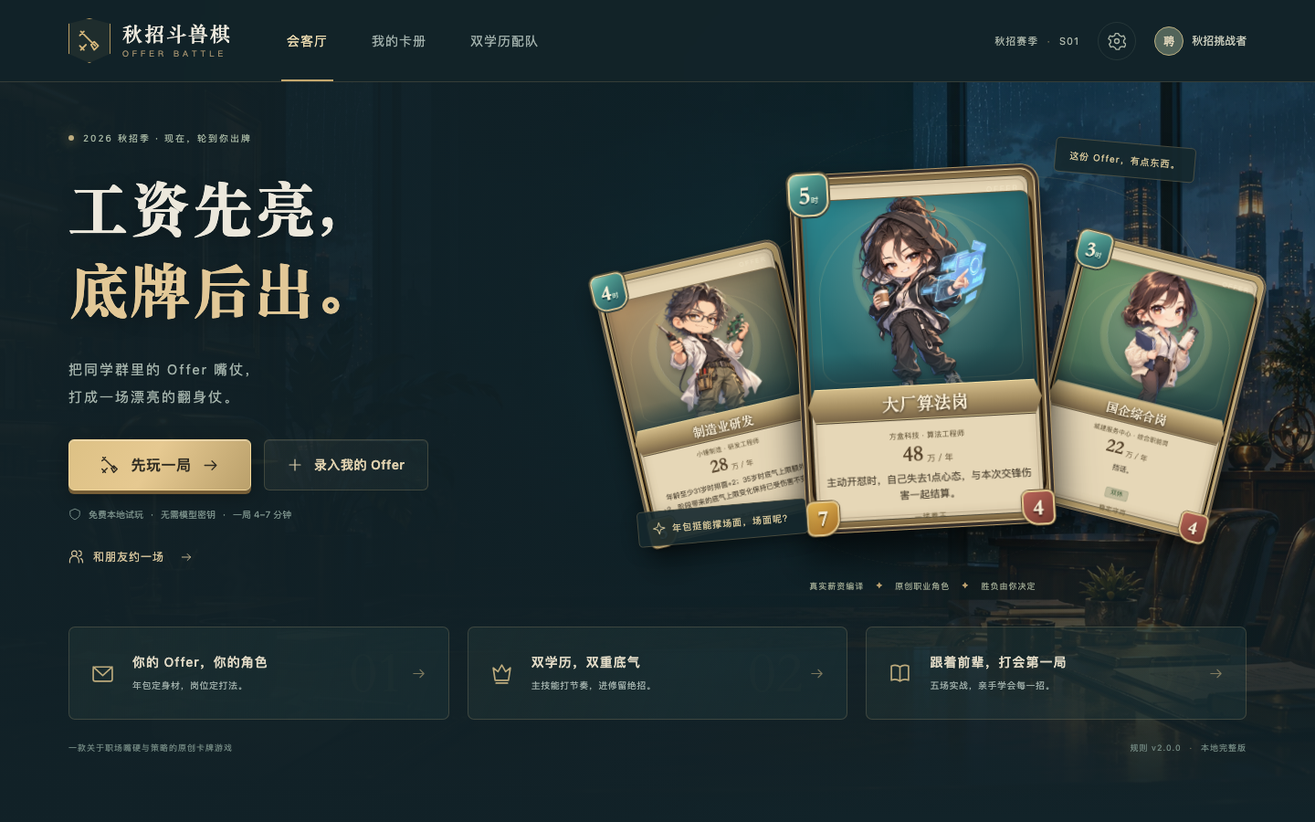
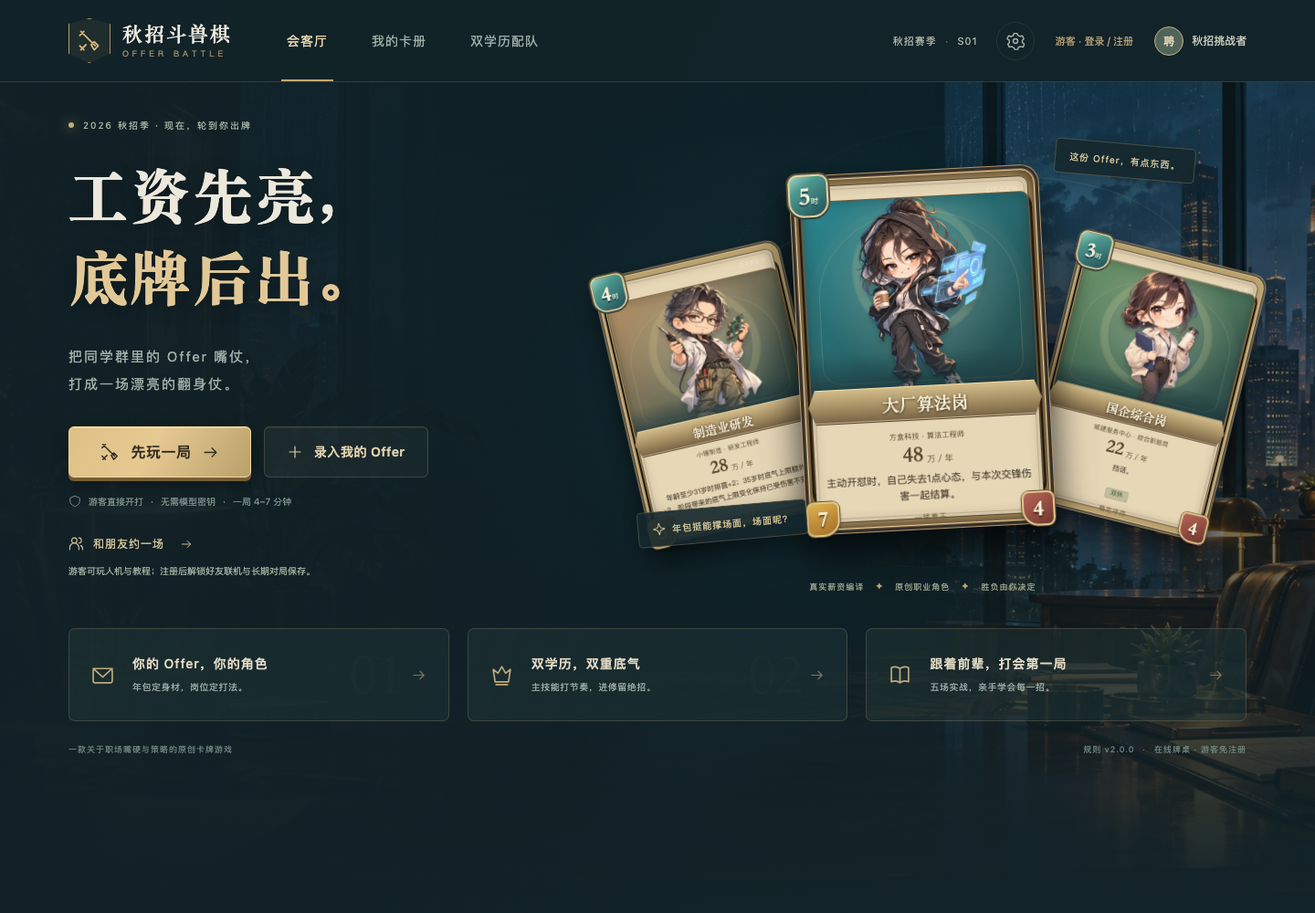
Fix mobile tutorial completion and document verified public release

diff --git a/src/styles/tutorial.css b/src/styles/tutorial.css
@@ -1,4 +1,4 @@
-.academy-page{padding-top:35px}.academy-hero{display:grid;grid-template-columns:1.1fr 1fr;min-height:475px;align-items:center;gap:40px;position:relative;background:radial-gradient(ellipse at 78% 40%,#bda56d12,transparent 55%)}.academy-hero h1{font:600 clamp(36px,4.6vw,62px)/1.35 var(--serif);letter-spacing:3px;margin:20px 0;color:#ede7d1}.academy-hero h1 em{color:#d8bf84;font-style:normal}.academy-hero section>p{color:#a4b4aa;line-height:2;font-size:15px;letter-spacing:1px}.academy-progress{max-width:300px;margin:25px 0 22px;color:#b9b58f;font-size:11px}.academy-progress>div{height:5px;background:#71867d25;margin-top:11px;border-radius:6px;overflow:hidden}.academy-progress i{display:block;height:100%;background:linear-gradient(90deg,#547b66,#d6bc80);transition:width .4s}.academy-actions{display:flex;align-items:center;gap:20px;flex-wrap:wrap}.academy-actions>.text-btn{font-size:11px}.academy-mentor{position:relative;height:435px;display:grid;place-items:center;isolation:isolate}.academy-mentor>img{height:415px;max-width:90%;object-fit:contain;position:relative;z-index:1;filter:drop-shadow(0 15px 28px #0007)}.mentor-orbit{position:absolute;inset:42px 30px 50px;border:1px solid #c5ae6545;border-radius:50%;background:radial-gradient(ellipse,#cfbc6422,transparent 67%)}.mentor-orbit:after{content:'';position:absolute;inset:18px;border:1px dashed #b29a5140;border-radius:50%}.mentor-note{position:absolute;bottom:5px;left:0;right:0;z-index:2;background:linear-gradient(120deg,#24453ef5,#142d31f5);border:1px solid #bda56d66;padding:17px 25px;transform:rotate(-2deg);box-shadow:0 8px 30px #0005;border-radius:5px;max-width:360px;margin:auto}.mentor-note>span{font-size:10px;color:#b9aa7b;letter-spacing:2px}.mentor-note strong{display:block;margin:9px 0;color:#eadab1;font:600 23px var(--serif)}.mentor-note p{font-size:11px;color:#9cae9a;margin:0}.academy-curriculum{margin-top:40px;padding-bottom:40px}.lesson-path{display:grid;gap:15px}.lesson-card{display:flex;align-items:center;gap:26px;text-align:left;padding:24px 28px;background:linear-gradient(110deg,#243a36b3,#152a3099);border:1px solid #a8995e47;border-radius:10px;width:100%;position:relative;color:#dfd9ba;transition:background .2s,border-color .2s,transform .2s}.lesson-card.unlocked:hover{border-color:#d1ba74;background:#2e453dd6;transform:translateY(-2px)}.lesson-card.locked{opacity:.48;cursor:default}.lesson-number{width:55px;height:55px;flex-shrink:0;display:grid;place-items:center;border:1px solid #b9a25f7a;border-radius:14px;background:#ceb46d12;color:#d7bf81;font:26px var(--serif)}.lesson-card.complete .lesson-number{color:#a5c7a3;background:#709d6a25;border-color:#739371}.lesson-content{flex:1}.lesson-topic{font-size:10px;letter-spacing:2px;color:#a9a783}.lesson-content h3{font:600 23px var(--serif);margin:8px 0 9px}.lesson-content p{font-size:12px;color:#9eafa2;line-height:1.7;margin:0}.lesson-tags{display:flex;gap:7px;flex-wrap:wrap;margin-top:13px}.lesson-tags>span{font-size:9px;color:#b7bea0;border:1px solid #9baf792e;border-radius:3px;padding:4px 7px}.lesson-end{display:flex;align-items:center;gap:25px;color:#bdaa70}.lesson-end .badge{font-size:9px}.tutorial-coach{position:sticky;top:5px;z-index:45;margin:0 auto 18px;max-width:1370px;display:flex;align-items:center;gap:18px;padding:16px 20px 20px;border:1px solid #c3ac6d80;border-radius:10px;background:linear-gradient(100deg,#183333f5,#1c3430f5);box-shadow:0 7px 25px #0006;backdrop-filter:blur(12px);isolation:isolate}.coach-portrait{width:64px;height:78px;overflow:hidden;border:1px solid #bda569;background:radial-gradient(ellipse,#b9c298,#345449);border-radius:40% 40% 12px 12px;flex-shrink:0}.coach-portrait>img{width:85px;height:127px;max-width:none;object-fit:cover;transform:translateX(-10px)}.coach-message{flex:1;min-width:0}.coach-topline{display:flex;gap:12px;justify-content:space-between;color:#aead81;font-size:10px;letter-spacing:1px}.coach-topline b{color:#d7bd75;font-weight:500}.coach-message>p{font-size:14px;color:#e1ddc2;line-height:1.8;margin:8px 0;animation:coach-arrive .25s ease-out}.coach-message>strong{font-size:13px;color:#e5c887;display:block;line-height:1.7}.coach-message>strong>span{font-size:9px;letter-spacing:1px;padding:3px 5px;background:#ceb3711c;border-radius:3px;color:#b9b28b;margin-right:8px}.coach-hint{margin-top:10px;padding:10px 12px;border-left:2px solid #bda46a;background:#031b2033;font-size:12px;line-height:1.8;color:#b7c3b2}.coach-actions{display:grid;grid-template-columns:1fr 1fr;gap:7px;flex-shrink:0}.coach-actions>button{display:flex;gap:6px;align-items:center;justify-content:center;font-size:10px;padding:9px 10px;border:1px solid #bca36b39;background:#c5b8780b;color:#bcbc9b;border-radius:4px;min-height:36px}.coach-actions>button:first-child{border-color:#c4ab7277;color:#e1c98b}.coach-progress{position:absolute;bottom:0;left:12px;right:12px;height:3px;background:#b9bc9220;border-radius:4px;overflow:hidden}.coach-progress>i{height:100%;display:block;background:#d7bd79;transition:width .4s}.tutorial-spotlight{position:fixed;z-index:52;pointer-events:none;border:2px solid #f1d487;border-radius:10px;box-shadow:0 0 0 5px #e4c9781d,0 0 27px #ffeeb451;animation:lesson-pulse 1.4s ease-in-out infinite}.tutorial-spotlight>span{position:absolute;top:-24px;left:50%;transform:translateX(-50%);display:flex;align-items:center;white-space:nowrap;gap:5px;font-size:10px;padding:4px 8px;border-radius:4px;background:#edd69a;color:#253b33}.tutorial-spotlight svg{transform:rotate(90deg)}.lesson-complete-overlay{position:fixed;inset:0;z-index:110;display:grid;place-items:center;padding:20px;background:#081b24d9;backdrop-filter:blur(8px)}.lesson-complete{width:620px;max-width:100%;max-height:92vh;overflow:auto;text-align:center;border:1px solid #c3ad6c;border-radius:14px;padding:35px;background:radial-gradient(ellipse at top,#4c6444,#213c36 48%,#152b30);box-shadow:0 0 70px #c0a74b20;animation:lesson-complete-in .5s ease-out}.lesson-complete-seal{width:100px;height:100px;border:2px solid #d8c180;box-shadow:0 0 0 8px #c4b2721c,0 0 50px #c5c06b25;border-radius:50%;display:grid;place-items:center;color:#e7d399;margin:5px auto 30px;background:#ddc17215}.lesson-complete h1{font:600 34px/1.6 var(--serif);color:#f1dfaf;margin:18px 0}.lesson-complete h1 em{display:block;font-style:normal;font-size:21px;letter-spacing:8px;color:#adbf97}.lesson-complete>p{font-size:14px;color:#b8c7b0;line-height:1.9}.lesson-complete ul{list-style:none;padding:16px 0;margin:10px auto 20px;max-width:400px;text-align:left}.lesson-complete li{padding:9px 0;font-size:13px;border-bottom:1px solid #bfc89624;color:#c7d0b5;display:flex;align-items:center;gap:10px}.lesson-complete li svg{color:#c9bf7e}.lesson-complete .modal-actions{justify-content:center}.lesson-complete .center-btn{margin-top:20px}@keyframes coach-arrive{from{opacity:.35;transform:translateY(4px)}to{opacity:1;transform:translateY(0)}}@keyframes lesson-pulse{50%{box-shadow:0 0 0 7px #e4c9780e,0 0 35px #ffeeb46b}}@keyframes lesson-complete-in{from{opacity:0;transform:translateY(12px) scale(.96)}to{opacity:1;transform:none}}[data-reduced=true] .tutorial-spotlight,[data-reduced=true] .lesson-complete,[data-reduced=true] .coach-message>p{animation:none}
+.academy-page{padding-top:35px}.academy-hero{display:grid;grid-template-columns:1.1fr 1fr;min-height:475px;align-items:center;gap:40px;position:relative;background:radial-gradient(ellipse at 78% 40%,#bda56d12,transparent 55%)}.academy-hero h1{font:600 clamp(36px,4.6vw,62px)/1.35 var(--serif);letter-spacing:3px;margin:20px 0;color:#ede7d1}.academy-hero h1 em{color:#d8bf84;font-style:normal}.academy-hero section>p{color:#a4b4aa;line-height:2;font-size:15px;letter-spacing:1px}.academy-progress{max-width:300px;margin:25px 0 22px;color:#b9b58f;font-size:11px}.academy-progress>div{height:5px;background:#71867d25;margin-top:11px;border-radius:6px;overflow:hidden}.academy-progress i{display:block;height:100%;background:linear-gradient(90deg,#547b66,#d6bc80);transition:width .4s}.academy-actions{display:flex;align-items:center;gap:20px;flex-wrap:wrap}.academy-actions>.text-btn{font-size:11px}.academy-mentor{position:relative;height:435px;display:grid;place-items:center;isolation:isolate}.academy-mentor>img{height:415px;max-width:90%;object-fit:contain;position:relative;z-index:1;filter:drop-shadow(0 15px 28px #0007)}.mentor-orbit{position:absolute;inset:42px 30px 50px;border:1px solid #c5ae6545;border-radius:50%;background:radial-gradient(ellipse,#cfbc6422,transparent 67%)}.mentor-orbit:after{content:'';position:absolute;inset:18px;border:1px dashed #b29a5140;border-radius:50%}.mentor-note{position:absolute;bottom:5px;left:0;right:0;z-index:2;background:linear-gradient(120deg,#24453ef5,#142d31f5);border:1px solid #bda56d66;padding:17px 25px;transform:rotate(-2deg);box-shadow:0 8px 30px #0005;border-radius:5px;max-width:360px;margin:auto}.mentor-note>span{font-size:10px;color:#b9aa7b;letter-spacing:2px}.mentor-note strong{display:block;margin:9px 0;color:#eadab1;font:600 23px var(--serif)}.mentor-note p{font-size:11px;color:#9cae9a;margin:0}.academy-curriculum{margin-top:40px;padding-bottom:40px}.lesson-path{display:grid;gap:15px}.lesson-card{display:flex;align-items:center;gap:26px;text-align:left;padding:24px 28px;background:linear-gradient(110deg,#243a36b3,#152a3099);border:1px solid #a8995e47;border-radius:10px;width:100%;position:relative;color:#dfd9ba;transition:background .2s,border-color .2s,transform .2s}.lesson-card.unlocked:hover{border-color:#d1ba74;background:#2e453dd6;transform:translateY(-2px)}.lesson-card.locked{opacity:.48;cursor:default}.lesson-number{width:55px;height:55px;flex-shrink:0;display:grid;place-items:center;border:1px solid #b9a25f7a;border-radius:14px;background:#ceb46d12;color:#d7bf81;font:26px var(--serif)}.lesson-card.complete .lesson-number{color:#a5c7a3;background:#709d6a25;border-color:#739371}.lesson-content{flex:1}.lesson-topic{font-size:10px;letter-spacing:2px;color:#a9a783}.lesson-content h3{font:600 23px var(--serif);margin:8px 0 9px}.lesson-content p{font-size:12px;color:#9eafa2;line-height:1.7;margin:0}.lesson-tags{display:flex;gap:7px;flex-wrap:wrap;margin-top:13px}.lesson-tags>span{font-size:9px;color:#b7bea0;border:1px solid #9baf792e;border-radius:3px;padding:4px 7px}.lesson-end{display:flex;align-items:center;gap:25px;color:#bdaa70}.lesson-end .badge{font-size:9px}.tutorial-coach{position:sticky;top:5px;z-index:45;margin:0 auto 18px;max-width:1370px;display:flex;align-items:center;gap:18px;padding:16px 20px 20px;border:1px solid #c3ac6d80;border-radius:10px;background:linear-gradient(100deg,#183333f5,#1c3430f5);box-shadow:0 7px 25px #0006;backdrop-filter:blur(12px);isolation:isolate}.coach-portrait{width:64px;height:78px;overflow:hidden;border:1px solid #bda569;background:radial-gradient(ellipse,#b9c298,#345449);border-radius:40% 40% 12px 12px;flex-shrink:0}.coach-portrait>img{width:85px;height:127px;max-width:none;object-fit:cover;transform:translateX(-10px)}.coach-message{flex:1;min-width:0}.coach-topline{display:flex;gap:12px;justify-content:space-between;color:#aead81;font-size:10px;letter-spacing:1px}.coach-topline b{color:#d7bd75;font-weight:500}.coach-message>p{font-size:14px;color:#e1ddc2;line-height:1.8;margin:8px 0;animation:coach-arrive .25s ease-out}.coach-message>strong{font-size:13px;color:#e5c887;display:block;line-height:1.7}.coach-message>strong>span{font-size:9px;letter-spacing:1px;padding:3px 5px;background:#ceb3711c;border-radius:3px;color:#b9b28b;margin-right:8px}.coach-hint{margin-top:10px;padding:10px 12px;border-left:2px solid #bda46a;background:#031b2033;font-size:12px;line-height:1.8;color:#b7c3b2}.coach-actions{display:grid;grid-template-columns:1fr 1fr;gap:7px;flex-shrink:0}.coach-actions>button{display:flex;gap:6px;align-items:center;justify-content:center;font-size:10px;padding:9px 10px;border:1px solid #bca36b39;background:#c5b8780b;color:#bcbc9b;border-radius:4px;min-height:36px}.coach-actions>button:first-child{border-color:#c4ab7277;color:#e1c98b}.coach-progress{position:absolute;bottom:0;left:12px;right:12px;height:3px;background:#b9bc9220;border-radius:4px;overflow:hidden}.coach-progress>i{height:100%;display:block;background:#d7bd79;transition:width .4s}.tutorial-spotlight{position:fixed;z-index:52;pointer-events:none;border:2px solid #f1d487;border-radius:10px;box-shadow:0 0 0 5px #e4c9781d,0 0 27px #ffeeb451;animation:lesson-pulse 1.4s ease-in-out infinite}.tutorial-spotlight>span{position:absolute;top:-24px;left:50%;transform:translateX(-50%);display:flex;align-items:center;white-space:nowrap;gap:5px;font-size:10px;padding:4px 8px;border-radius:4px;background:#edd69a;color:#253b33}.tutorial-spotlight svg{transform:rotate(90deg)}.lesson-complete-overlay{position:fixed;inset:0;z-index:110;display:grid;grid-template-columns:minmax(0,1fr);place-items:center;padding:20px;background:#081b24d9;backdrop-filter:blur(8px)}.lesson-complete{width:min(620px,calc(100vw - 40px));max-width:100%;min-width:0;max-height:calc(100dvh - 40px);overflow:auto;text-align:center;border:1px solid #c3ad6c;border-radius:14px;padding:35px;background:radial-gradient(ellipse at top,#4c6444,#213c36 48%,#152b30);box-shadow:0 0 70px #c0a74b20;animation:lesson-complete-in .5s ease-out}.lesson-complete-seal{width:100px;height:100px;border:2px solid #d8c180;box-shadow:0 0 0 8px #c4b2721c,0 0 50px #c5c06b25;border-radius:50%;display:grid;place-items:center;color:#e7d399;margin:5px auto 30px;background:#ddc17215}.lesson-complete h1{font:600 34px/1.6 var(--serif);color:#f1dfaf;margin:18px 0}.lesson-complete h1 em{display:block;font-style:normal;font-size:21px;letter-spacing:8px;color:#adbf97}.lesson-complete>p{font-size:14px;color:#b8c7b0;line-height:1.9}.lesson-complete ul{list-style:none;padding:16px 0;margin:10px auto 20px;max-width:400px;text-align:left}.lesson-complete li{padding:9px 0;font-size:13px;border-bottom:1px solid #bfc89624;color:#c7d0b5;display:flex;align-items:center;gap:10px}.lesson-complete li svg{color:#c9bf7e}.lesson-complete .modal-actions{justify-content:center}.lesson-complete .center-btn{margin-top:20px}@keyframes coach-arrive{from{opacity:.35;transform:translateY(4px)}to{opacity:1;transform:translateY(0)}}@keyframes lesson-pulse{50%{box-shadow:0 0 0 7px #e4c9780e,0 0 35px #ffeeb46b}}@keyframes lesson-complete-in{from{opacity:0;transform:translateY(12px) scale(.96)}to{opacity:1;transform:none}}[data-reduced=true] .tutorial-spotlight,[data-reduced=true] .lesson-complete,[data-reduced=true] .coach-message>p{animation:none}
 @media(max-width:760px){.academy-page{padding-top:22px}.academy-hero{display:flex;flex-direction:column;gap:0;min-height:0}.academy-hero>section{width:100%}.academy-hero h1{font-size:38px;margin:16px 0}.academy-hero section>p{font-size:13px}.academy-mentor{height:300px;width:100%;margin-top:18px}.academy-mentor>img{height:300px}.mentor-orbit{inset:30px 40px 40px}.mentor-note{max-width:285px;bottom:0;padding:12px 19px}.mentor-note strong{font-size:18px}.mentor-note p{font-size:9px}.academy-actions{gap:17px}.academy-progress{max-width:100%}.academy-curriculum{margin-top:33px}.academy-curriculum .section-heading{flex-wrap:wrap;gap:9px}.academy-curriculum .section-heading>small{flex-basis:100%;margin-left:0}.lesson-card{padding:18px 15px;gap:13px;align-items:flex-start;flex-wrap:wrap}.lesson-number{width:38px;height:40px;border-radius:9px;font-size:20px}.lesson-content{flex:1;min-width:0}.lesson-topic{font-size:8px;letter-spacing:.6px}.lesson-content h3{font-size:20px}.lesson-content p{font-size:11px}.lesson-tags{gap:4px}.lesson-tags>span{font-size:8px;padding:3px 5px}.lesson-end{width:100%;justify-content:space-between;padding-left:51px;gap:8px}.lesson-end>svg{width:16px}.lesson-end .badge{font-size:8px}.tutorial-coach{top:3px;gap:10px;padding:12px 11px 16px;flex-wrap:wrap;margin-bottom:13px}.coach-portrait{width:43px;height:57px;align-self:flex-start}.coach-portrait>img{width:62px;height:98px;transform:translateX(-10px)}.coach-message{min-width:0}.coach-topline{font-size:8px;letter-spacing:0}.coach-message>p{font-size:11px;line-height:1.75;margin:5px 0}.coach-message>strong{font-size:11px;line-height:1.7}.coach-message>strong>span{font-size:7px;padding:2px 4px;margin-right:5px}.coach-actions{display:flex;width:100%;gap:5px;justify-content:space-between;margin-top:2px}.coach-actions>button{padding:7px 6px;min-height:35px;font-size:8px;flex:1;gap:3px}.coach-actions>button>svg{width:12px}.coach-hint{font-size:11px;padding:8px}.tutorial-spotlight>span{font-size:8px;top:-22px}.lesson-complete{padding:27px 19px}.lesson-complete h1{font-size:27px}.lesson-complete>p{font-size:12px}.lesson-complete li{font-size:11px}.lesson-complete .btn{font-size:11px;padding:12px}.lesson-complete .modal-actions{gap:9px}}
 
 .hand-card-wrapper{flex-shrink:0;position:relative}.battle-unit .unit-main:disabled{filter:none;opacity:1;cursor:wait}.in-tutorial .hand-dock{scroll-margin-top:170px}.in-tutorial [data-battle-id],.in-tutorial [data-offer-id],.in-tutorial [data-hand-id]{scroll-margin-top:190px}

diff --git a/src/styles/battle-effects.css b/src/styles/battle-effects.css
@@ -1,2 +1,1 @@
 .battle-effects{position:fixed;inset:0;z-index:88;pointer-events:none!important;overflow:hidden;isolation:isolate;contain:layout style;--fx-gold:#f4d38b}.battle-effects *{pointer-events:none!important}.battle-fx-canvas{position:absolute;inset:0;width:100%;height:100%;z-index:3}.battle-fx-flight,.battle-fx-ghost{position:absolute;z-index:2;transform-origin:center;will-change:transform,opacity;filter:drop-shadow(0 12px 18px #0008) drop-shadow(0 0 9px #ffe2a680)}.battle-fx-flight>*{margin:0!important;animation:none!important;transition:none!important;width:100%!important;height:100%!important}.battle-fx-flight *{animation:none!important;transition:none!important}.battle-fx-flight .unit-info{display:none}.battle-fx-ghost{z-index:1}.battle-fx-ghost>*{width:100%!important;height:100%!important;animation:none!important}.battle-fx-card-back{width:100%;height:100%;border:3px solid #d9bd7d;border-radius:25%;background:repeating-linear-gradient(45deg,#143b42,#143b42 5px,#315d5a 6px,#315d5a 8px);box-shadow:inset 0 0 0 5px #202d26,inset 0 0 0 6px #cbb880}.battle-fx-number{position:absolute;z-index:8;white-space:nowrap;font:900 clamp(32px,4vw,54px)/1 Georgia,'Songti SC',serif;letter-spacing:-1px;color:#ffedbd;-webkit-text-stroke:1px #633420;text-shadow:0 3px 0 #673922,0 5px 2px #0a131d,0 0 19px #ffbc6070;will-change:transform,opacity}.battle-fx-number.heal{color:#d3ffd4;-webkit-text-stroke-color:#24483a;text-shadow:0 3px 0 #2c6550,0 5px 2px #0a131d,0 0 24px #69edb9}.battle-fx-number.buff{color:#fff1b5;-webkit-text-stroke-color:#66552a;text-shadow:0 3px 0 #3c4732,0 5px 2px #0a131d,0 0 24px #acd77a}.battle-fx-number.small{font-size:clamp(18px,2.4vw,29px);letter-spacing:2px}.battle-fx-number.skill{font-family:'Songti SC',Georgia,serif;padding:9px 20px;border-top:1px solid #efce7966;border-bottom:1px solid #efce7966;background:linear-gradient(90deg,transparent,#0e292cef 18%,#183e39ed 82%,transparent);color:#ffebbb;max-width:84vw;text-overflow:ellipsis;overflow:hidden;letter-spacing:3px;-webkit-text-stroke:0;text-shadow:0 2px 5px #000,0 0 20px #e8bc6770}.battle-fx-retort{position:absolute;z-index:6;border:3px solid #d5baf0;border-radius:7px;background:linear-gradient(135deg,#243545,#5f456a);box-shadow:0 0 0 4px #192634,0 0 0 5px #c4a4d8,0 0 48px #d1b5e377;color:#ffe7bf;font:700 25px 'Songti SC',serif;padding:35px 27px;white-space:nowrap;text-shadow:0 2px 2px #141924}.battle-fx-video{position:fixed;z-index:87;transform:translate(-50%,-50%);width:min(620px,105vw);height:auto;max-width:none;mix-blend-mode:screen;opacity:.93;filter:contrast(1.1);pointer-events:none}.battle-effects[data-reduced-motion=true] .battle-fx-video{display:none}@media(max-width:600px){.battle-fx-number{font-size:36px}.battle-fx-number.small{font-size:18px;letter-spacing:1px}.battle-fx-retort{font-size:19px;padding:25px 20px}.battle-fx-flight{filter:drop-shadow(0 8px 10px #0008) drop-shadow(0 0 6px #ffe2a6aa)}}@media(prefers-reduced-motion:reduce){.battle-fx-flight,.battle-fx-ghost,.battle-fx-video{display:none}.battle-fx-number{will-change:opacity}}
-

diff --git a/tests/static/guest.spec.ts b/tests/static/guest.spec.ts
@@ -35,6 +35,7 @@ for(const width of [1440,390])test(`static guest ${width}px: blocked API, real t
   await expect.poll(async()=>(await temporaryRoom(page)).room.tutorial!.stepIndex).toBe(3);
   await settled(page);await page.getByRole('button',{name:'实习搭子',exact:true}).click();
   await expect(page.locator('.lesson-complete-overlay')).toBeVisible();
+  const completion=await page.locator('.lesson-complete').boundingBox();expect(completion).not.toBeNull();expect(completion!.x).toBeGreaterThanOrEqual(0);expect(completion!.x+completion!.width).toBeLessThanOrEqual(width);expect(completion!.y).toBeGreaterThanOrEqual(0);expect(completion!.y+completion!.height).toBeLessThanOrEqual(page.viewportSize()!.height);
   expect(await page.evaluate(()=>sessionStorage.getItem('offer-local-active-v1'))).toBeNull();
   expect(await page.evaluate(()=>document.documentElement.scrollWidth<=innerWidth+2)).toBe(true);
   await page.screenshot({path:testInfo.outputPath(`guest-tutorial-${width}.png`)});

diff --git a/scripts/finalize_art.py b/scripts/finalize_art.py
@@ -83,4 +83,3 @@ for group,prefixes in [('heroes',['hero_']),('offers',['offer_','example_']),('s
   canvas.paste(im,(x,y),im);draw.text(((i%cols)*cellw+10,(i//cols)*cellh+cellh-24),r['id'],fill='#f1dfae')
  canvas.save(out/f'contact-{group}.jpg',quality=90)
 print(json.dumps(summary))
-

diff --git a/scripts/compose_sfx.py b/scripts/compose_sfx.py
@@ -241,4 +241,3 @@ def main():
         "peakDbFSRange":[min(r["peakDbFS"] for r in results),max(r["peakDbFS"] for r in results)],
         "durationSecondsRange":[min(r["durationSeconds"] for r in results),max(r["durationSeconds"] for r in results)]}))
 if __name__=="__main__":main()
-

diff --git a/scripts/build_procedural_assets.py b/scripts/build_procedural_assets.py
@@ -125,4 +125,3 @@ for a in SPEC:
     for c in range(2):mixat(s[:,c],hit,t)
   savewave(a['preferred_path'],s,2)
 print('Procedural outputs created: UI 48, accessories 11, VFX 12, audio 18, share layouts 3.')
-

diff --git a/TEST_REPORT.md b/TEST_REPORT.md
@@ -9,18 +9,25 @@
 | 规则、Node 服务、游客引擎、账号客户端、媒体和动效单测 | **159 / 159 通过**，0 失败、0 跳过 | `npm test` |
 | 运行资源完整性 | **197 项通过**：190 个基础槽位、6 首情境配乐、1 个技能影片；同时检查源文件哈希 | `npm run assets:check` |
 | Node 生产版浏览器回归 | **42 / 42 通过**，0 失败、0 跳过、0 重试；150.6 秒 | `npm run build`，然后 `E2E_PRODUCTION=1 npm run test:e2e` |
-| 静态游客与账号界面回归 | **10 / 10 通过**，0 失败、0 跳过、0 重试；17.7 秒 | `npm run test:e2e:static` |
+| 静态游客与账号界面回归 | **10 / 10 通过**，0 失败、0 跳过、0 重试；14.6 秒，针对 `dist-pages` 生产构建 | `npm run test:e2e:static` |
 | Cloudflare 运行时集成 | **6 / 6 通过**；使用 workerd / Miniflare 与 SQLite Durable Objects | `npm run test:cloudflare` |
+| 公网 HTTPS / WSS 双账号验收 | 完整 50 条命令对局；双方各接收 109 个快照，保存与恢复通过 | 见 [部署说明](DEPLOYMENT.md) |
 | TypeScript 类型检查 | 通过 | `npm run typecheck`、`npm run typecheck:cloudflare` |
 | 原始规格参考验证 | 资料一致性通过，**41 项 Python 参考测试通过** | `python3 spec/validate_bundle.py` |
 
 可机器读取的结果、执行命令与测试边界收录于 [验收摘要](evidence/release-validation.json)。[资源校验输出](evidence/assets-final.txt) 可与仓库中实际文件对照。测试环境为 macOS arm64、Node.js 26.4.0、Playwright 1.63.0 与 Chromium；项目运行要求 Node.js 24 或更新版本。
 
+最终静态验收直接预览准备发布的 `dist-pages`，未修改或重新打包产物；子目录为 `/offer-battle/`，没有生产 sourcemap。`npm run test:e2e:static` 默认启动隔离开发页；复核生产产物时，在一个终端运行 `npx vite preview --outDir dist-pages --base /offer-battle/ --host 127.0.0.1 --port 5197`，另一个终端执行：
+
+```sh
+STATIC_TEST_URL=http://127.0.0.1:5197/offer-battle/ npm run test:e2e:static
+```
+
 ## 游客真的在本地玩
 
 12 项本地后端单测覆盖五门完整教程及导师响应、三种机器人共用的调度路径、完整普通对局、合法指令与幂等重试、超时、练习场景、收藏和配队、回放一致性以及临时房间恢复。完整机器人对局测试禁止调用 `fetch`；提交的初始参数可以再次构造同一初局，逐条重放后得到相同最终视图。
 
-静态浏览器验收在 **1440px 和 390px** 宽度完成第一课的四次真实点击与目标选择。测试阻断全部 `/api/` 请求，确认实际请求数仍为 **0**，刷新后继续原步骤，结业后删除临时对局缓存。丢失或过期的本地房间返回首页，不向服务器索取访客会话。
+静态浏览器验收在 **1440px 和 390px** 宽度完成第一课的四次真实点击与目标选择。测试阻断全部 `/api/` 请求，确认实际请求数仍为 **0**，刷新后继续原步骤，结业后删除临时对局缓存；结业卡的四个边界都在当前视口内。丢失或过期的本地房间返回首页，不向服务器索取访客会话。
 
 游客收藏保存在浏览器，正在进行的本地房间仅在当前标签页的 `sessionStorage` 暂存，最长 12 小时。终局不建立长期历史；当前页面仍可回放，注册后可以主动保存普通完整对局。教程和预设演练有独立教学初局，不作为普通战绩长期保存。
 
@@ -29,6 +36,8 @@
 账号界面测试覆盖游客好友入口、邀请信息保留、注册与恢复码确认、错误提示、恢复账号、终局后登录继续保存真实指令记录、历史回放与删除、退出、云端房间失效凭证的原位重新认证。旧凭证的迟到 401 响应不会清除后来登录的新账号；临时网络失败也不会把账号当成失效凭证删除。
 
 Cloudflare 集成测试运行真实 Worker 和 Durable Object 逻辑，验证账号与凭证、好友房、公开视图裁剪、合法指令、对局保存、持久化及权限边界。静态账号 **界面** 测试使用可控 HTTP/WebSocket 传输夹具，用于复现登录错误、恢复和迟到响应；其结论不代替 Cloudflare 运行时测试，也不代替公网验收。
+
+公网后端另使用两个新注册账号完成真实 HTTPS/WSS 对局：50 条已接受指令，双方各 109 次状态快照；好友战报保存、普通本地对局导入、重赛、新会话登录和账号恢复均通过。此项不使用界面测试中的传输夹具；最后的手机结业布局修复也已在正式网址通过四边界检查。完整发布记录由部署文档维护，脱敏结果见 [线上验收摘要](evidence/online-validation.json)。
 
 Node 路径使用真实 HTTP 监听和 WebSocket，覆盖两个独立浏览器玩家的创建、加入、准备、选牌、换牌、完整结算及回放；第三方不能凭房间码接管已有席位。对手拿不到隐藏手牌、牌序、原始薪酬字段或会话凭据。客户端伪造的 Offer 属性不会进入权威结算。
 

diff --git a/DEPLOYMENT.md b/DEPLOYMENT.md
@@ -20,7 +20,7 @@ Pages 本身没有数据库或 WebSocket 服务。后端暂时不可达时，游
 
 ```sh
 npm ci
-npx wrangler login --use-keyring
+npx wrangler login --use-keyring --scopes account:read user:read workers_scripts:write
 npm run test:cloudflare
 npm run deploy:cloudflare
 ```
@@ -87,4 +87,10 @@ Cloudflare 免费服务有额度上限，不是无限服务器。SQLite Durable 
 
 两名真实测试账号在公网完成 50 条合法指令的一整局，双方各收到 109 次 WSS 状态快照。已验证手牌裁剪、好友战报保存与重放、本地完成对局导入、好友重赛、重新登录读取历史、恢复码轮换和旧令牌失效。整组协议验收耗时约 56 秒，首次注册/登录各约 1 秒（含网络往返）。测试账号与凭证保存在未公开的本地工作目录。
 
-页面发布与双浏览器操作检查正在本次发布流程中进行；完成后将补入最终结果。上述协议检查不等同于大规模并发压力测试。
+正式网页另使用两个隔离的 Chromium 浏览器上下文，实际登录、创建房间、通过邀请加入、准备、选择应对牌、换起手牌和点击 Offer 上桌。双方通过 UI 提交 7 次操作，再用各自公开视图中的合法指令推进 43 次，完成第 8 轮结算；双方实际接收 141 / 136 次 WSS 消息。断网后刷新保留席位和回合截止时间。双方都通过界面保存对局并打开已校验的回放，另一个账号读取私有记录返回 404，刷新后登录状态保留。
+
+第三个游客浏览器在 390px 下阻断所有 API，完成第一课四步、刷新恢复和临时记录清理，实际 API 请求为 0。人工检查发现结业面板在窄屏发生裁切，已修正网格与宽高约束，补充四边界断言，并在生产包中完成 10 项静态回归；增量发布后，在正式网址再次完成 390px 教程全过程与结业四边界检查，1/1 通过（8.7 秒）。
+
+首次线上发布的 305 个文件已全部进行 HTTP 检查，0 缺失；个人网站仅新增或更新 `offer-battle/`，同时使用已签发的站点证书启用 HTTPS。上述检查不等同于大规模并发压力测试。
+
+机器可读取的脱敏公网结果见 [线上验收摘要](evidence/online-validation.json)。网页发布提交为 `1d945c9f5574dd834ad8f70fa99ccdf2d6ffbae1`；不公开测试账号、密码、恢复码或完整浏览器 trace。
